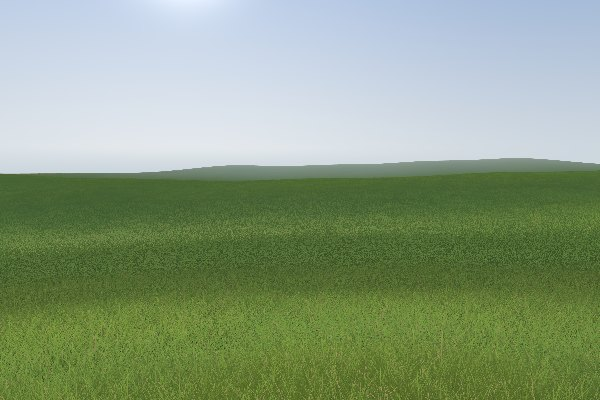
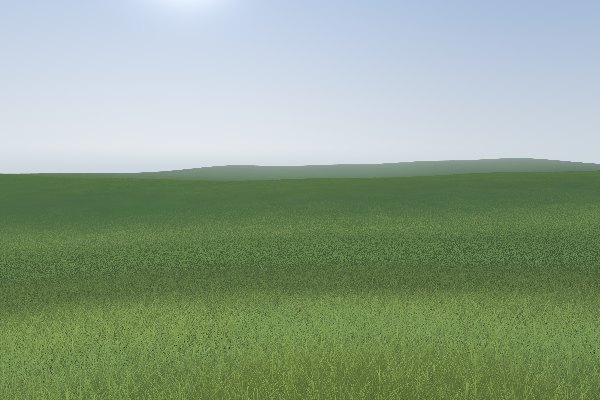
Mown leaves end in a tear, not a spike; short grass takes taller grass's shadow
- A cut leaf's slant is as high as the leaf is broad, whatever its length:
  a strap with an end. It was 14% of the leaf, which made spears of rough.
- A stand too short for the shadow picture still takes from it the shadow
  of anything taller beside it.
- Dead leaves are the plant's old ones: shorter, down in the stand, paler.
- A far tuft's blade is broad low down and drawn out fine above, so tall
  grass on a skyline is a fringe and not a row of spikes.
- The ground that stands in for leaves glows towards the sun as they do.
- Fescue and Kentucky bluegrass get their wax's grey-blue cast.
- The collar scene looks along the three cuts under a low sun.

Changed region(s): [[0.0, 0.51, 1.0, 1.0], [0.51, 0.45, 0.54, 0.48], [0.12, 0.45, 0.15, 0.48]]

diff --git a/src/engine.ts b/src/engine.ts
@@ -133,8 +133,10 @@ const LEAF_IN_SHADE = 0.5;
 /** Grass shorter than the first (m) does not swing in the wind at all; grass as tall as the second swings freely. */
 const SWING_FROM_M = 0.045;
 const SWING_FULL_M = 0.11;
+/** How long a dead leaf is beside a live one of the same plant. */
+const DEAD_LEAF_TALL = 0.62;
 /** A dead leaf: straw. */
-const STRAW = new THREE.Color("#b5a268");
+const STRAW = new THREE.Color("#b9ac80");
 /** A leaf folded along its rib has each half turned this far (radians) from flat, at a `fold` of 1: a shallow V. */
 const FOLD_ANGLE = 0.5;
 /** A tuft's blade is this many times as broad as a fine leaf of its species: it stands for several. */
@@ -309,6 +311,8 @@ export function createGrass(options: GrassOptions): Grass {
   const SHADOW_PIXELS_APART = 1.5;
   /** A stand's leaves shadow each other by the picture in full once the stand is this many of its pixels tall, measured along the ground under the sun; at one, not at all. */
   const SHADOW_PIXELS_TALL = 3;
+  /** A stand's own leaves reach this many times its height above a point in it, at most (a tall leaf, ground rising a little towards the sun): what shadows it from further up the sun's ray than that is something taller. A golf course's surfaces step up by two or three times each, so this is well under two. */
+  const SHADOW_OWN_REACH = 1.6;
   const SHADOW_DEEP_M = 60;
   /** Only the squares of leaves that reach no further than this (m) are drawn into it: the two nearest. */
   const SHADOW_NEAR_RANGE_M = 2;
@@ -322,8 +326,12 @@ export function createGrass(options: GrassOptions): Grass {
   const uSunMat = uniform(new THREE.Matrix4());
   const uShadowOn = uniform(0);
   const sunCam = new THREE.OrthographicCamera(-SHADOW_HALF_M, SHADOW_HALF_M, SHADOW_HALF_M, -SHADOW_HALF_M, 0.1, SHADOW_DEEP_M);
-  /** Whether the sun reaches a point past the leaves about it (x: 1 it does, 0 it does not), and how far that is known (y: 0 outside the picture). */
-  const leafShadow = (at: Vec3, stands: THREE.Node<"float">): Vec2 => {
+  /**
+   * Whether the sun reaches a point past the leaves about it (x: 1 it does, 0 it does not), how far that
+   * is known (y: 0 outside the picture), how far the picture can tell the leaves of a stand `stands` tall
+   * apart (z), and whether the sun reaches the point past everything taller than that stand (w).
+   */
+  const leafShadow = (at: Vec3, stands: THREE.Node<"float">): Vec4 => {
     const clip = uSunMat.mul(vec4(at, 1));
     const inPicture = vec2(clip.x.mul(0.5).add(0.5), clip.y.mul(-0.5).add(0.5));
     const node = texture(shadowTargets[0].depthTexture!, inPicture).level(float(0));
@@ -338,7 +346,10 @@ export function createGrass(options: GrassOptions): Grass {
     // (And a stand no taller than that reach is leaves the picture cannot tell apart at all: there the
     // picture says nothing, and each leaf is in the sun or out of it by how deep in the stand it is.)
     const toldApart = smoothstep(float(1), float(SHADOW_PIXELS_TALL), stands.div(along.mul(2 * SHADOW_HALF_M / SHADOW_SIZE)));
-    return vec2(step(clip.z.sub(apart.div(SHADOW_DEEP_M)), nearest), known.mul(toldApart));
+    // (What such a stand still takes from the picture is the shadow of anything taller beside it: whatever
+    // is further up the sun's ray than the stand's own leaves could be.)
+    const ownReach = stands.mul(SHADOW_OWN_REACH).div(max(uSun.y, float(0.05)));
+    return vec4(step(clip.z.sub(apart.div(SHADOW_DEEP_M)), nearest), known, toldApart, step(clip.z.sub(apart.add(ownReach).div(SHADOW_DEEP_M)), nearest));
   };
   const noiseTex = makeNoiseTexture();
   const table = makeSpeciesTable();
@@ -780,10 +791,15 @@ export function createGrass(options: GrassOptions): Grass {
     const gustIs = smoothstep(float(0.3), float(0.72), noise(gustAt.div(61.0)).r.mul(0.68).add(noise(gustAt.mul(1.35).div(19.0).add(0.43)).g.mul(0.32)));
     const windTakes = min(smoothstep(float(0.075), float(0.17), row(k, 0).x).mul(float(1).sub(row(k, 2).w)).mul(1.4), float(1));
     const blown = float(1).add(gustIs.sub(0.5).mul(windTakes).mul(clamp(uWind.z.div(8.0), float(0), float(1.7))).mul(far).mul(GUST_PALE));
+    // (Looking towards the sun the leaves glow with the light through them, and the ground that stands
+    // for them further off glows as they do, or a dull band lies where the leaves stop: a leaf's glow,
+    // averaged over its length and the ways it faces.)
+    const fromEye = normalize(vec3(xz.x.sub(uCamPos.x), max(uEyeUp, float(0.02)).negate(), xz.y.sub(uCamPos.z)));
+    const glow = vec3(1).add(vec3(1.25, 1.4, 0.05).mul(pow(max(dot(fromEye, uSun), float(0)), float(4)).mul(0.26).mul(far).mul(smoothstep(float(0.02), float(0.1), row(k, 0).x))));
     // (Bare ground is shaded as grown ground is: a path beside tall grass lies in its shadow.)
     const onGround = leafShadow(positionWorld, row(k, 0).x);
-    const leavesShade = mix(float(1), mix(float(LEAF_IN_SHADE), float(1), onGround.x), onGround.y);
-    return mix(uBare, tone(xz, vec3(base.x, base.y, base.z)).mul(leavesShade).mul(siteTint(xz)).mul(patchTint(xz, k)).mul(under).mul(laidShade(xz, layAt(xz, k))).mul(float(1).add(grain)).mul(lying).mul(inSeed).mul(blown), alive).mul(mix(inShade(), vec3(1), sunReach(xz, standsFor))).mul(skyOpen(xz, standsFor));
+    const leavesShade = mix(float(1), mix(float(LEAF_IN_SHADE), float(1), mix(onGround.w, onGround.x, onGround.z)), onGround.y);
+    return mix(uBare, tone(xz, vec3(base.x, base.y, base.z)).mul(leavesShade).mul(siteTint(xz)).mul(patchTint(xz, k)).mul(under).mul(laidShade(xz, layAt(xz, k))).mul(float(1).add(grain)).mul(lying).mul(inSeed).mul(blown).mul(glow), alive).mul(mix(inShade(), vec3(1), sunReach(xz, standsFor))).mul(skyOpen(xz, standsFor));
   };
 
   const geometries: THREE.BufferGeometry[] = [];
@@ -794,7 +810,10 @@ export function createGrass(options: GrassOptions): Grass {
   // height] at each joint, then the tip. Enough joints for it to bend over in
   // a curve (a fine leaf in a field is a few pixels wide: three carry it).
   const FINE_RINGS: [number, number][] = [[0.6, 0], [1, 0.34], [0.9, 0.76]];
-  const TUFT_RINGS: [number, number][] = [[0.62, 0], [1, 0.28], [0.95, 0.55], [0.74, 0.8]];
+  // (A tuft's blade stands for several leaves, and is broad for it: but broad low down, where the leaves
+  // it stands for are a mass, and drawn out fine above, where they are single tips. Broad to its top it
+  // is an agave on a skyline.)
+  const TUFT_RINGS: [number, number][] = [[0.62, 0], [1, 0.24], [0.66, 0.5], [0.3, 0.78]];
   /** The same outline with `joints` joints, for a leaf seen close: a specimen. */
   const fineRings = (rings: [number, number][], joints: number): [number, number][] => {
     const top = rings[rings.length - 1][1];
@@ -928,7 +947,11 @@ export function createGrass(options: GrassOptions): Grass {
     const shapedX = mix(mix(gPos.x, mix(gPos.x, cutSide.mul(TOP_HALF_WIDTH), isTip), isCut), squareX, isSquare).mul(seedHead);
     // (A cut-out leaf is a plain strip, its outline left to its picture.)
     const leafX = mix(shapedX, edge.mul(float(1).sub(onRib)), cutout);
-    const gy = mix(mix(gPos.y, mix(gPos.y, mix(float(0.86), float(0.88), isSquare), isTopJoint), isCut), gPos.y, cutout);
+    // (The slant is the mower's tear across the leaf: about as high as the leaf is broad, some nearly
+    // square and some well aslant, whatever the leaf's length. As a share of a long leaf that is very
+    // little: a cut leaf is a strap with an end, not a spear.)
+    const tear = clamp(row(k, 1).x.mul(mix(float(0.25), float(1.1), hashCell(hcell.add(b.mul(9.7).add(53.0))))).div(max(tall, float(1e-4))), float(0.006), float(0.14));
+    const gy = mix(mix(gPos.y, mix(gPos.y, mix(float(1).sub(tear), float(0.88), isSquare), isTopJoint), isCut), gPos.y, cutout);
     // A leaf does not turn to face whoever looks at it. Each is turned its
     // own way, up to some 60 degrees from square-on, and twists a little up
     // its length, so some are seen broad and some nearly edge-on.
@@ -954,7 +977,9 @@ export function createGrass(options: GrassOptions): Grass {
     // at its own length and only as far along as where it crosses that height (see `cutAt`): the stand
     // has a level top of cut ends, with the shorter leaves' own tips below it.
     const mown = max(isCut, isSquare);
-    const bladeTall = mix(tall.mul(float(1).sub(stand.y.mul(0.5)).add(rh.mul(stand.y))), tall.mul(float(0.85).add(rh.mul(0.95))), mown);
+    // (A dead leaf is an old one: the plant's lowest, down in the stand under the live ones, not up among their tips.)
+    const oldLeaf = mix(float(1), float(DEAD_LEAF_TALL), step(hashCell(hcell.add(b.mul(9.7).add(63.0))), tint.w));
+    const bladeTall = mix(tall.mul(float(1).sub(stand.y.mul(0.5)).add(rh.mul(stand.y))), tall.mul(float(0.85).add(rh.mul(0.95))), mown).mul(oldLeaf);
 
     // The leaf arches: upright at the root, bending over more and more towards the tip.
     const lean0 = vec2(st.x, st.y).add(out2.mul(fine ? float(0.2).add(rb.mul(0.42)) : float(0.25).add(rb.mul(0.3))).mul(blade.z));
@@ -1023,8 +1048,9 @@ export function createGrass(options: GrassOptions): Grass {
       const sunGetsTo = pow(max(rootIs, float(0.02)), float(1).sub(gPos.y));
       const ownLuck = hashCell(hcell.add(b.mul(11.7).add(87.0)));
       const inSun = smoothstep(ownLuck.mul(0.9).sub(0.06), ownLuck.mul(0.9).add(0.06), sunGetsTo);
-      const shadowed = o.field ? leafShadow(worldPos, tall) : vec2(1, 0);
-      const dapple = mix(mix(float(1), mix(float(0.58), float(1.14), inSun), float(1).sub(calm).mul(uLight).mul(1.4).min(1)), mix(float(LEAF_IN_SHADE), float(1.1), shadowed.x), shadowed.y);
+      const shadowed = o.field ? leafShadow(worldPos, max(tall, stand.x)) : vec4(1, 0, 1, 1);
+      const byDepth = mix(float(1), mix(float(0.58), float(1.14), inSun), float(1).sub(calm).mul(uLight).mul(1.4).min(1));
+      const dapple = mix(byDepth, mix(byDepth.mul(mix(float(LEAF_IN_SHADE), float(1), shadowed.w)), mix(float(LEAF_IN_SHADE), float(1.1), shadowed.x), shadowed.z), shadowed.y);
       const turned = mix(mix(float(0.8), float(1.18), abs(dot(face, uSun))), float(1), calm).mul(inFold).mul(dapple);
       // its own green, a little to the yellow or to the blue of its neighbours';
       const own = vec3(1).add(vec3(0.16, 0.04, -0.2).mul(rh.sub(0.5)).mul(min(habit.w.mul(4), float(1))).mul(float(1).sub(calm)));

diff --git a/src/species.ts b/src/species.ts
@@ -339,7 +339,9 @@ const turf = (name: string, from: number, set: Partial<Species>): Species => ({ 
  * from grass to grass is the chlorophyll in a square centimetre of leaf, and those figures are
  * estimates, since nobody has published them species against species: bent 38 to 40 ug, rye 50 to 55,
  * Kentucky bluegrass 60, bermuda 45, red fescue 42, a hay meadow 34, fescue gone to seed 24 with brown
- * pigment in it, and annual meadow-grass 34 against the bent's 38 (the patches' tint).
+ * pigment in it, and annual meadow-grass 34 against the bent's 38 (the patches' tint). Fescue and Kentucky bluegrass
+ * carry a wax bloom the leaf model has none of: it sends back a little more of everything and most
+ * of the blue (1 to 2.5 parts in a hundred, an estimate), which is their grey-blue cast.
  *
  * The mown ones have mown edges (`edgeBlend` 0); deep rough, fescue and meadow run into their neighbours.
  * In the order of the lab's plot.
@@ -378,11 +380,11 @@ export const TURF_SPECIES: Species[] = [
   }),
   turf("Deep rough (red fescue)", 3, { twist: 0.6,
     height: 0.125, heightSpread: 0.5, density: 1.4, width: 0.0009, widthSpread: 0.0004, tip: "point",
-    splay: 1.2, droop: 1.6, stiffness: 0.25, clump: 1, disorder: 1, color: "#70944b", tipTint: [1.12, 1.12, 0.88], rootShade: 0.5,
+    splay: 1.2, droop: 1.6, stiffness: 0.25, clump: 1, disorder: 1, color: "#789b64", tipTint: [1.12, 1.12, 0.88], rootShade: 0.5,
     variation: 0.24, dry: 0.05, sheen: 0.5, edgeBlend: 0.4,
   }),
   turf("Fescue in seed", 4, {
-    height: 0.3, heightSpread: 0.8, color: "#8d9e4d", tipTint: [1.08, 1.08, 0.94], seedTint: [1.42, 1.38, 1.02], dry: 0.2, density: 0.38, edgeBlend: 1,
+    height: 0.3, heightSpread: 0.8, color: "#94a565", tipTint: [1.08, 1.08, 0.94], seedTint: [1.42, 1.38, 1.02], dry: 0.2, density: 0.38, edgeBlend: 1,
   }),
   turf("Hay meadow", 5, { height: 0.6, edgeBlend: 1.2, color: "#76954b" }),
 ];
@@ -396,7 +398,7 @@ export const MORE_TURF: { bermuda: Species; bluegrass: Species } = {
   }),
   bluegrass: turf("Lawn (Kentucky bluegrass)", 2, { cutTip: 0.55,
     height: 0.06, heightSpread: 0.2, density: 1.3, tufted: false, width: 0.0024, widthSpread: 0.0008, tip: "cut",
-    splay: 0.8, droop: 0.9, stiffness: 0.85, clump: 0.3, disorder: 0.6, color: "#5b794f", tipTint: [1.08, 1.08, 0.96], rootShade: 0.55,
+    splay: 0.8, droop: 0.9, stiffness: 0.85, clump: 0.3, disorder: 0.6, color: "#628061", tipTint: [1.08, 1.08, 0.96], rootShade: 0.55,
     variation: 0.18, dry: 0.01, sheen: 0.5, lay: 0.4,
     patch: 0.12, patchSize: 0.66, patchTint: [0.68, 0.94, 0.7], patchTall: 0.7,
   }),

diff --git a/lab/scenes.ts b/lab/scenes.ts
@@ -60,11 +60,11 @@ export const SCENES: Scene[] = [
   {
     id: "the-collar",
     title: "The collar",
-    blurb: "Green, collar, fairway: three heights of cut, each mown to a line. The steps are a few millimetres and the mower made them.",
+    blurb: "Green, collar, fairway, running away to the right: three heights of cut, each mown to a line, under a low sun that shows the steps. They are a few millimetres and the mower made them.",
     species: turf(),
     plot: -1, row: COLLAR,
-    view: { x: 3.6, z: 1, eye: 0.16, yaw: TO_MEADOW + 0.25, pitch: -0.1, fov: 46 },
-    sun: [150, 34], wind: [70, 2],
+    view: { x: 3.4, z: 1, eye: 0.4, yaw: TO_MEADOW + 0.75, pitch: -0.2, fov: 46 },
+    sun: [20, 16], wind: [70, 2],
   },
   {
     id: "striped-fairway",

diff --git a/lab/main.ts b/lab/main.ts
@@ -23,7 +23,7 @@ import { REFERENCES } from "./reference";
 // (v3: the lab starts from the named turf grasses, eight of them.)
 const STORE_KEY = "grass-lab-preset-v3";
 /** Which lab this is, shown in the status strip: so a picture of it says what was drawn. Change it with the grass. */
-const LAB_BUILD = "b44";
+const LAB_BUILD = "b47";
 const query = new URLSearchParams(location.search);
 
 interface Preset {

diff --git a/README.md b/README.md
@@ -149,8 +149,9 @@ is a separate mower at a fixed height, so its edges are steps
   as much green, nearly as much red and almost no blue, and the light
   through the leaves is tinted so. The chlorophyll per square centimetre
   is an estimate for each grass (38 to 60 ug): no source gives it species
-  against species, and a leaf's wax, which greys fescue and bluegrass, is
-  not in the model.
+  against species. A leaf's wax, which greys fescue and bluegrass, is not
+  in the model: it is added as a little more light sent back, most of it
+  blue, by estimate.
 
 ## What it does not do yet
 
